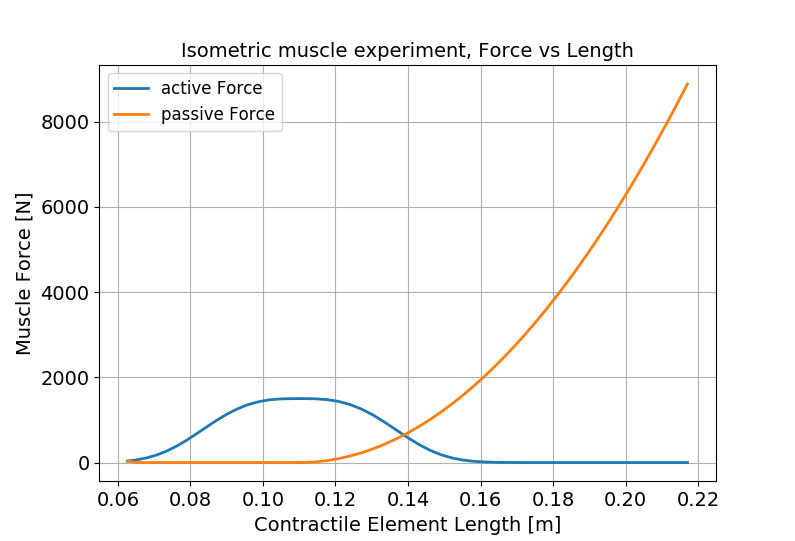
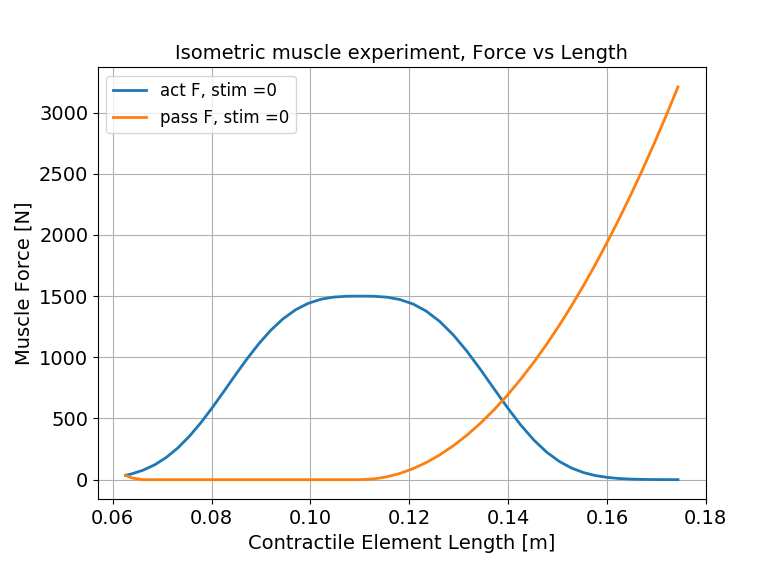
Finished exercise 1b and added plot in figs

diff --git a/Python/exercise1.py b/Python/exercise1.py
@@ -56,10 +56,10 @@ def exercise1a():
 
     # Evalute for a single muscle stretch
     #muscle_stretch = np.array([0.2,0.3,0.4,0.5,0.6,0.7,0.8,0.9,1,1.1,1.2,1.3,1.4])
-    muscle_stretch = np.linspace(0.2,1.5,100)
+    muscle_stretch = np.linspace(0.2,1.3,100)
     muscle_stretch = muscle_stretch*(sys.muscle.L_OPT+sys.muscle.L_SLACK)
     # Evalute for a single muscle stimulation
-    muscle_stimulation = 1.
+    muscle_stimulation = np.linspace(0.0,1.0,4)
 
     # Set the initial condition
     x0 = [0.0, sys.muscle.L_OPT]
@@ -73,19 +73,21 @@ def exercise1a():
 
     time = np.arange(t_start, t_stop, time_step)
 
-    l_ce = []
-    active_force = []
-    passive_force = []
+
     # Run the integration
-    for i in range(0,len(muscle_stretch)):
-        result = sys.integrate(x0=x0,
-                           time=time,
-                           time_step=time_step,
-                           stimulation=muscle_stimulation,
-                           muscle_length=muscle_stretch[i])
-        l_ce.append(result.l_ce[-1])
-        active_force.append(result.active_force[-1])
-        passive_force.append(result.passive_force[-1])
+    for s in range(0,len(muscle_stimulation)): 
+        l_ce = []
+        active_force = []
+        passive_force = []
+        for i in range(0,len(muscle_stretch)):
+            result = sys.integrate(x0=x0,
+                               time=time,
+                               time_step=time_step,
+                               stimulation=muscle_stimulation[s],
+                               muscle_length=muscle_stretch[i])
+            l_ce.append(result.l_ce[-1])
+            active_force.append(result.active_force[-1])
+            passive_force.append(result.passive_force[-1])
 
     # Plotting
 #    plt.figure('Isometric muscle experiment, Force vs Time')
@@ -96,14 +98,14 @@ def exercise1a():
 #    plt.ylabel('Muscle Force')
 #    plt.grid()
     
-    plt.figure('Isometric muscle experiment, Force vs Length')
-    plt.plot(l_ce, active_force, label='active Force')
-    plt.plot(l_ce, passive_force, label='passive Force')
-    plt.title('Isometric muscle experiment, Force vs Length')
-    plt.xlabel('Contractile Element Length [m]')
-    plt.ylabel('Muscle Force [N]')
-    plt.grid()
-    plt.legend()
+        plt.figure('Isometric muscle experiment, Force vs Length')
+        plt.plot(l_ce, active_force, label='act F, stim ='+str(s))
+        plt.plot(l_ce, passive_force, label='pass F, stim ='+str(s))
+        plt.title('Isometric muscle experiment, Force vs Length')
+        plt.xlabel('Contractile Element Length [m]')
+        plt.ylabel('Muscle Force [N]')
+        plt.grid()
+        plt.legend()
 
 
 def exercise1d():
